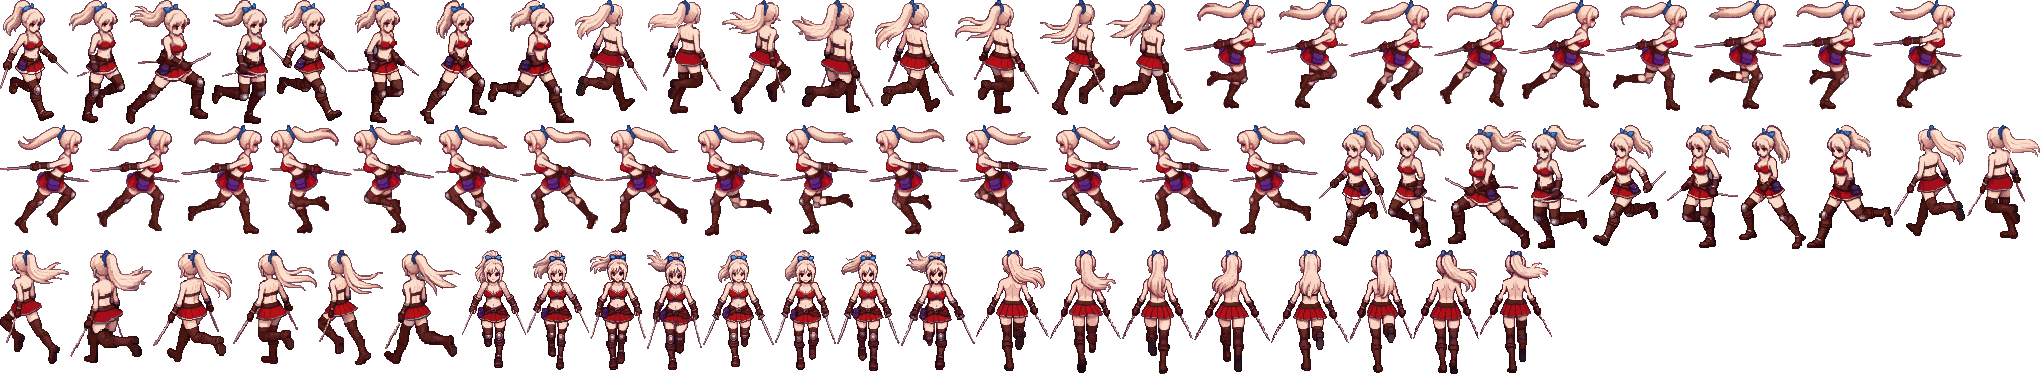
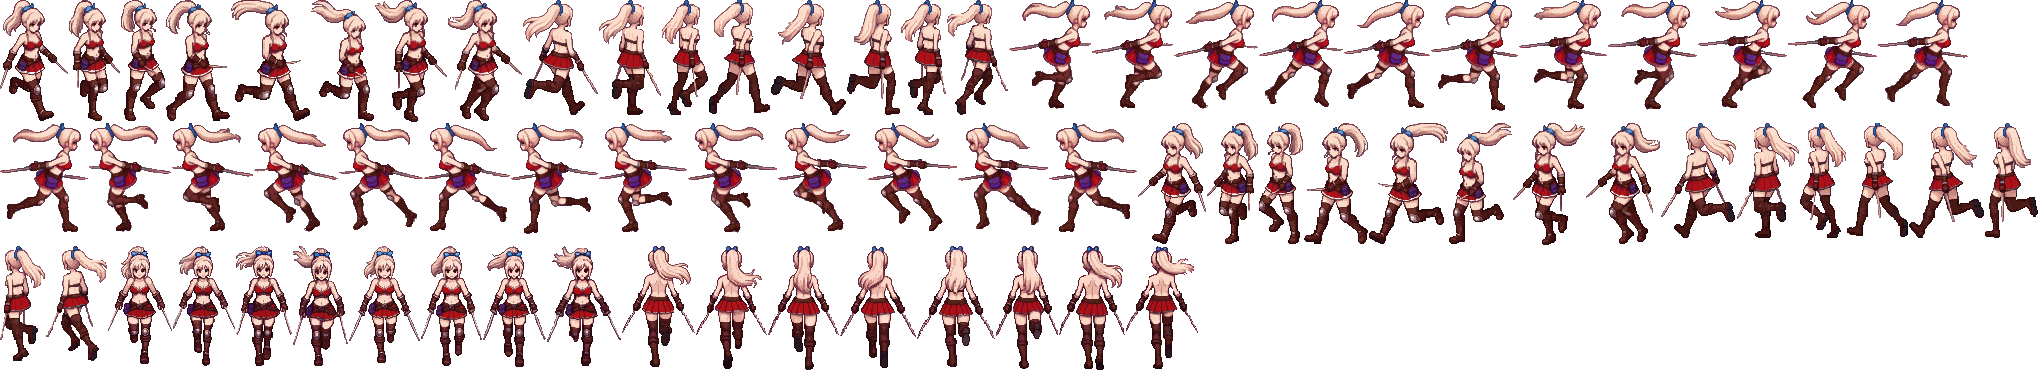
handoff: Linette diagonal runs as one 8-frame key->key cycle (16 gen); note for the key-pose doc
Claude-Session: https://claude.ai/code/session_016rTuiBLHccbMGyHtTkdTn7

diff --git a/handoff/claude/linette_final_v1/assemble.py b/handoff/claude/linette_final_v1/assemble.py
@@ -51,7 +51,7 @@ for _m in ('idle','walk','run'):   # owner 10-21 "대각선 이상": up-diagonal
     SRC[_m]['up']=(f'{SK}/{_m}_north-east_sidearms',None,SRC[_m]['up'][2])
 # owner 10-21 "해야지": diagonal walk + run also by the key-pose method (near/far leg keys + in-betweens), left = mirrored
 SRC['walk']['down']=(f'{KN}/walk_se_keys',None,[6]*8);SRC['walk']['up']=(f'{KN}/walk_ne_keys',None,[6]*8)
-SRC['run']['down']=(f'{KN}/run_se_keys',None,[4]*8);SRC['run']['up']=(f'{KN}/run_ne_keys',None,[4]*8)
+SRC['run']['down']=(f'{KN}/run_se_keys8',None,[4]*8);SRC['run']['up']=(f'{KN}/run_ne_keys8',None,[4]*8)   # 10-21 "다리교차 이상": one full 8-frame cycle key->same key (cycle8.py)
 SRC['rjump']={'right':(f'{SK}/rjump_east_v2',None,[3]*12)}   # owner 10-20: running jump = the hero's own rjump skeleton (CMU 127_25, frames 2-13) refit to Linette, run arms kept (v1 from estimated hero frames was too crouched); side only (left mirrored)
 SRC['cast']['down']=(V1+'/cast/south-east',None,[5]*9); SRC['cast']['up']=(V1+'/cast/north-east',None,[5]*9)   # owner 10-20: diagonal cast (down-right / up-right; mirrored -> downl/upl)
 man={'_doc':'Linette (PixelLab 7e26e0f3, 117px) motion set v1. frames/<motion>/<dir>/NNN.png, 256x256, feet root (128,189). left = right mirrored. ticks @60fps per frame.','motions':{}}

diff --git a/handoff/claude/linette_ns_keys_v1/cycle8.py b/handoff/claude/linette_ns_keys_v1/cycle8.py
@@ -1,0 +1,12 @@
+# One full 8-frame cycle drawn by animate-with-text-v3 from a key back to the same key (tw8_<d>, 9 frames, last = first):
+# frames 0-7, each re-scaled about the feet to the key's height (the model draws middle frames a few % bigger). usage: cycle8.py <d> <out>
+# (used for the diagonal runs: their near/far key edits came out as the same pose, so key->key halves held a whole stride each)
+import sys,glob,os
+from PIL import Image
+D=os.path.dirname(os.path.abspath(__file__));d,out=sys.argv[1],sys.argv[2];fs=sorted(glob.glob(f'{D}/tw8_{d}/*.png'))[:8];os.makedirs(out,exist_ok=True)
+h=lambda im:(lambda b:(b[3]-b[1],b))(im.getbbox());H0=h(Image.open(fs[0]).convert('RGBA'))[0]
+for i,f in enumerate(fs):
+    im=Image.open(f).convert('RGBA');hh,b=h(im)
+    if abs(hh-H0)>0.5:
+        s=H0/hh;im2=im.resize((round(256*s),round(256*s)),Image.NEAREST);cx=(b[0]+b[2])/2;fy=b[3];c=Image.new('RGBA',(256,256));c.paste(im2,(round(cx-cx*s),round(fy-fy*s)),im2);im=c
+    im.save(f'{out}/{i:03d}.png');print(i,hh,'->',h(im)[0])

diff --git a/handoff/claude/linette_final_v1/polish.py b/handoff/claude/linette_final_v1/polish.py
@@ -39,7 +39,7 @@ for m,dd in man['motions'].items():
 for m,d in (('run','south'),('run','north'),('run','down'),('run','downl'),('run','up'),('run','upl')):   # key-pose runs: keep the drawn ground, but cap the airborne lift at 4px (more reads as hopping)
     fs=sorted(glob.glob(f'{OUT}/{m}/{d}/*.png'));n=len(fs)
     for i,f in enumerate(fs):
-        im=Image.open(f);b=im.getbbox();dy=max(0,186-b[3])
+        im=Image.open(f);b=im.getbbox();dy=max(0,186-b[3]) if b[3]<186 else min(0,190-b[3])   # no more than 4px up, never below the ground
         c=Image.new('RGBA',(256,256));c.paste(im,(0,dy),im);c.save(f)
 for m,d in (('walk','down'),('walk','downl'),('walk','up'),('walk','upl')):   # key-pose diagonal walks: a walk never leaves the ground -> lowest pixel on the ground line (1px bob)
     fs=sorted(glob.glob(f'{OUT}/{m}/{d}/*.png'));n=len(fs)
